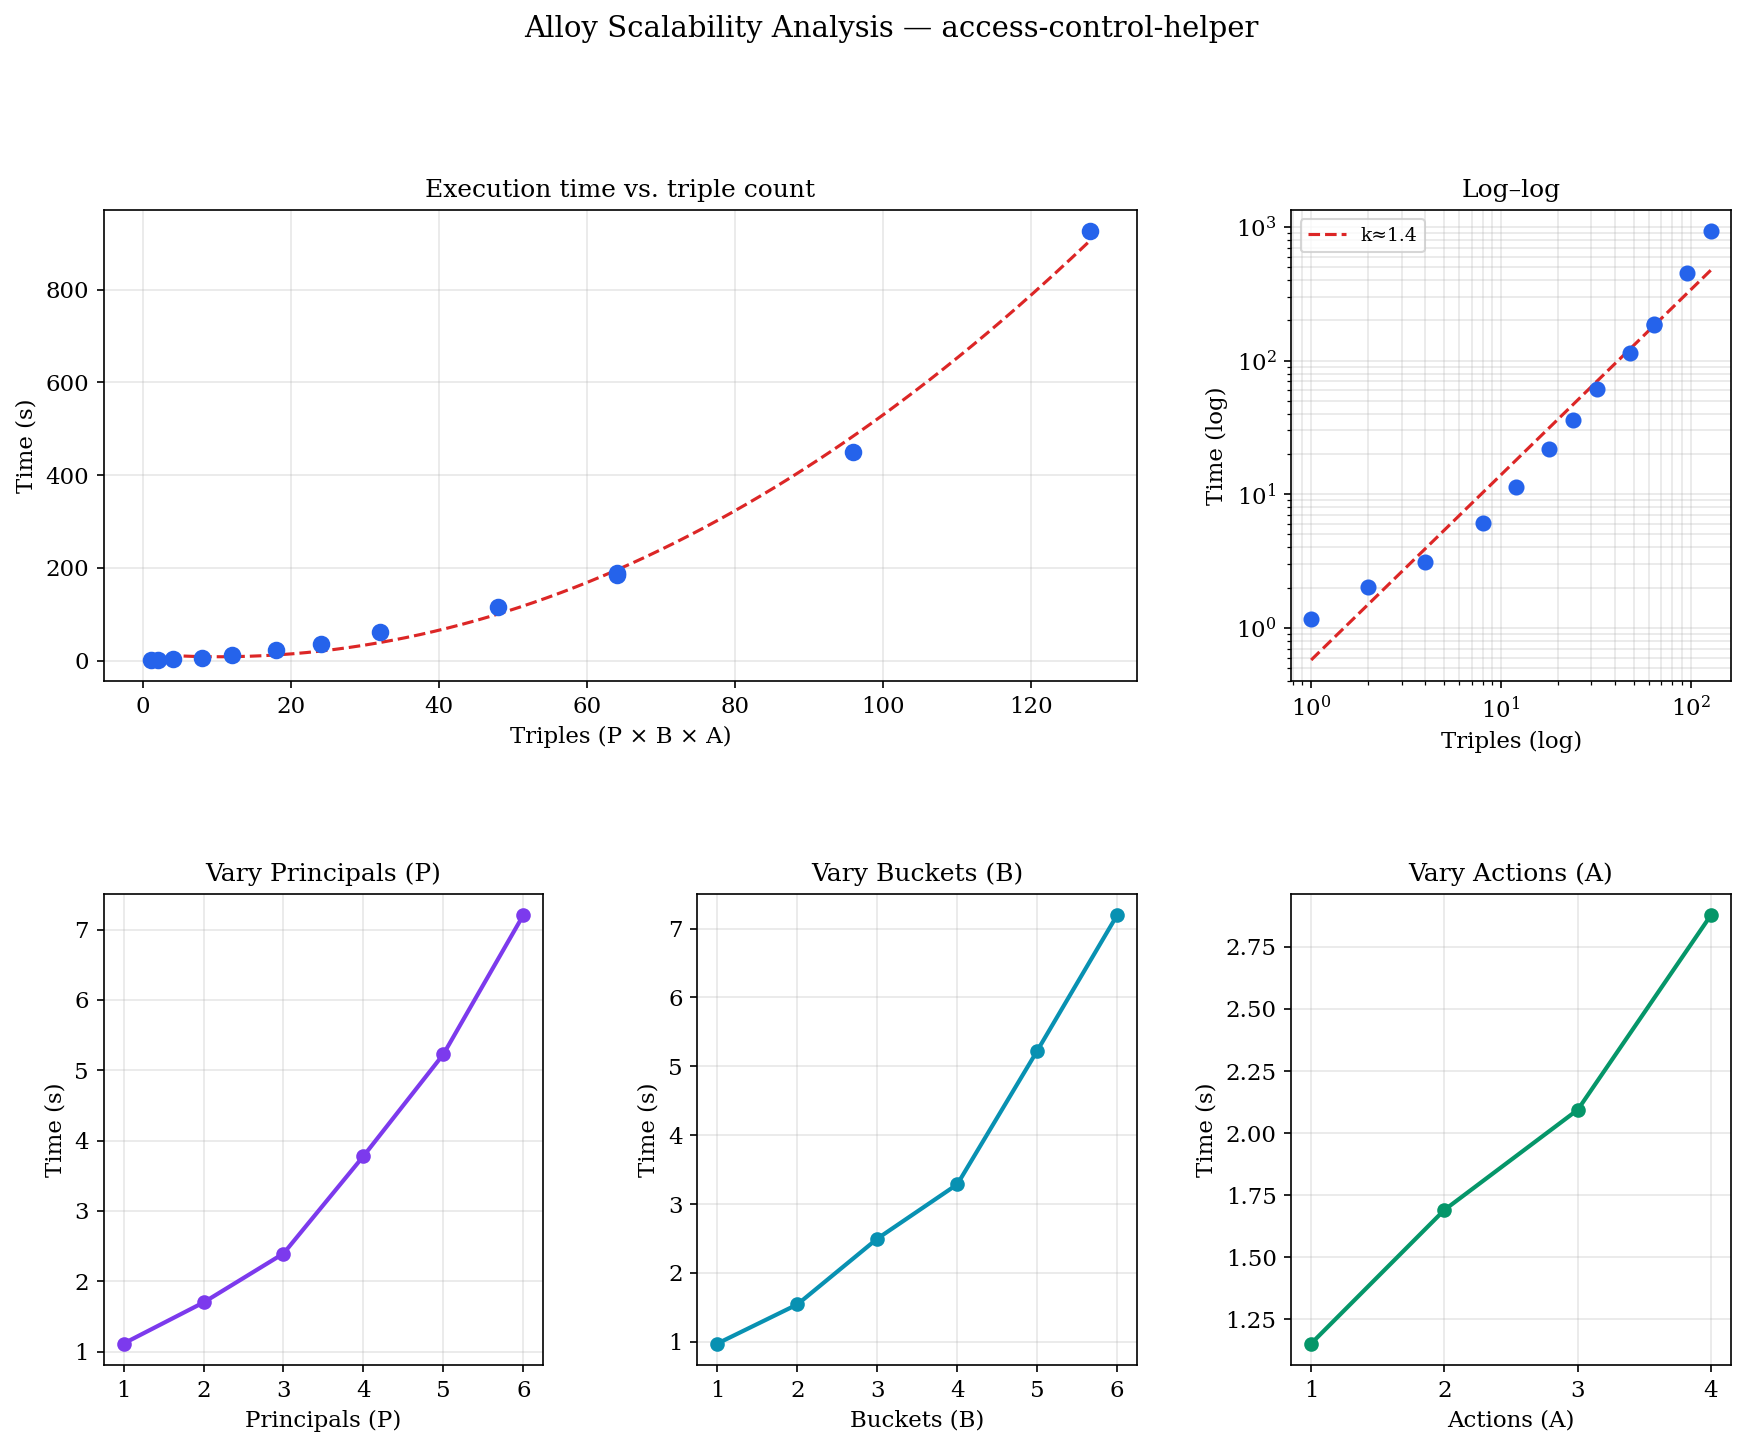
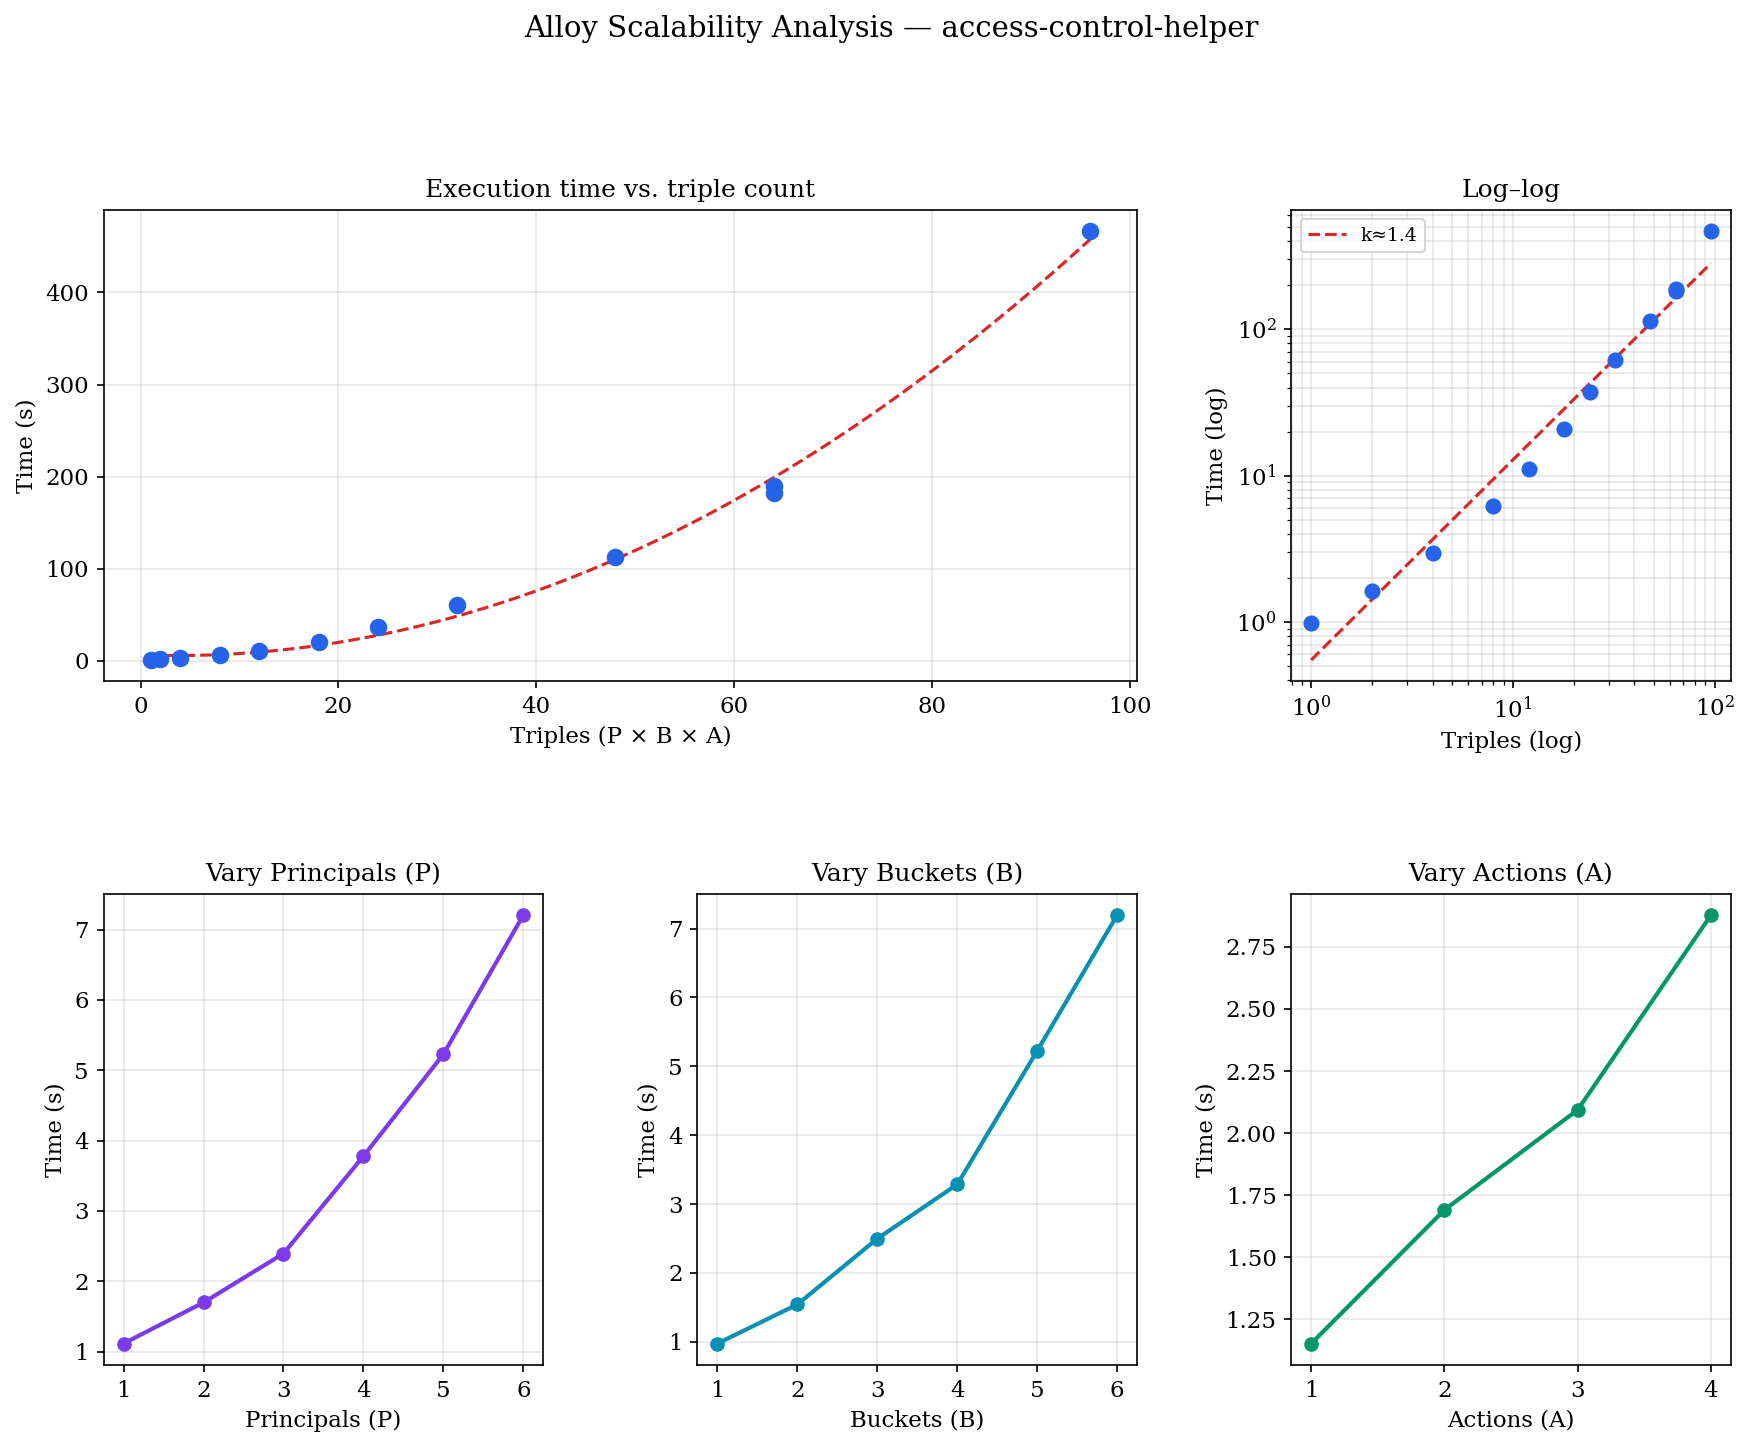
updated scalability results

diff --git a/README.md b/README.md
@@ -189,3 +189,22 @@ Phase results are saved to `eval/results/`:
 **`phase3_alloy.outcomes_pct.success`** — share of in-scope modules where the tool completed full Alloy analysis without error.
 
 The random sample (n=100, seed=42) is drawn at phase2 from the in-scope population. Phase3 uses the same seed and therefore the same 100 modules.
+
+
+
+
+
+
+
+# Policy Simulator сценарии (L1/L4/L5/L6):
+./deploy/validate_all.sh 01 mysuffix
+# → terraform apply + печатает готовые aws iam simulate-principal-policy команды
+
+# SCP/RCP сценарии (L2/L3) — нужен AWS Organizations:
+./deploy/validate_all.sh 04 mysuffix <account-id-or-ou-id>
+# → terraform apply + прикрепляет SCP + печатает aws sts assume-role команды
+
+
+
+go test ./eval/scalability/ -v -timeout 2h -run TestScalabilityTriples смотреть прогрусс
+cd eval/scalability && python3 plot.py --latest  рисовтаь графики
